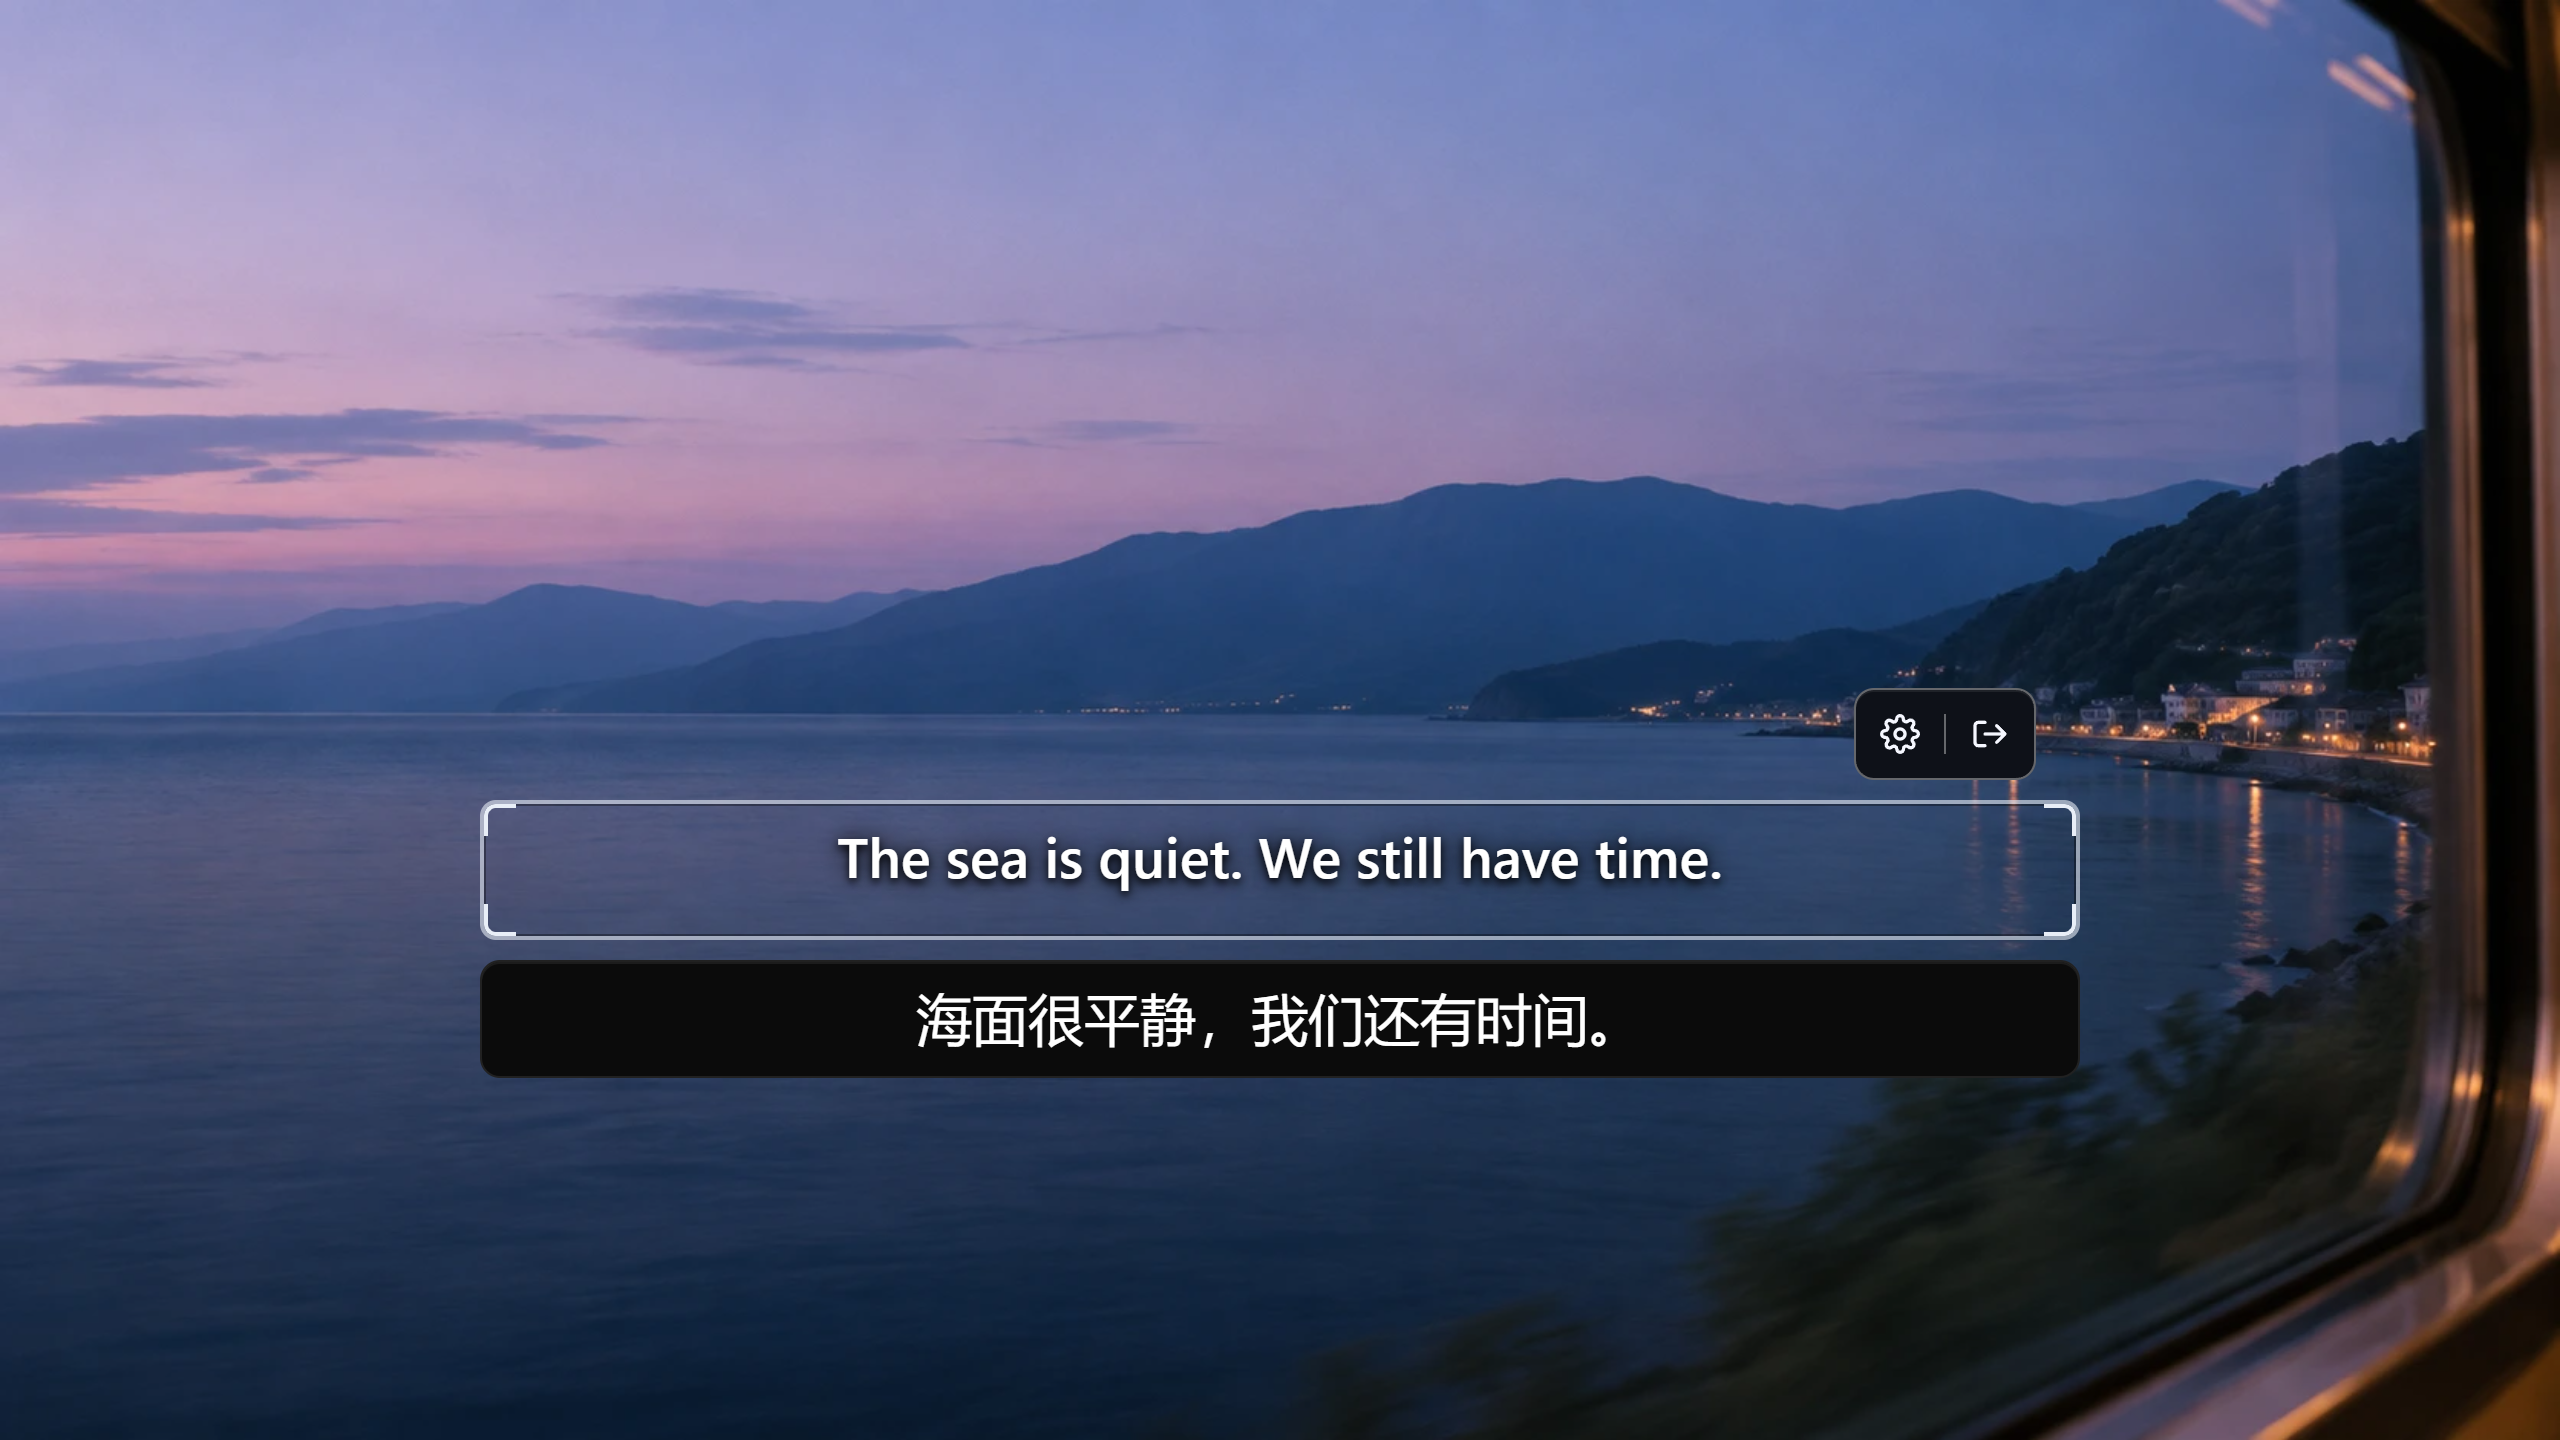
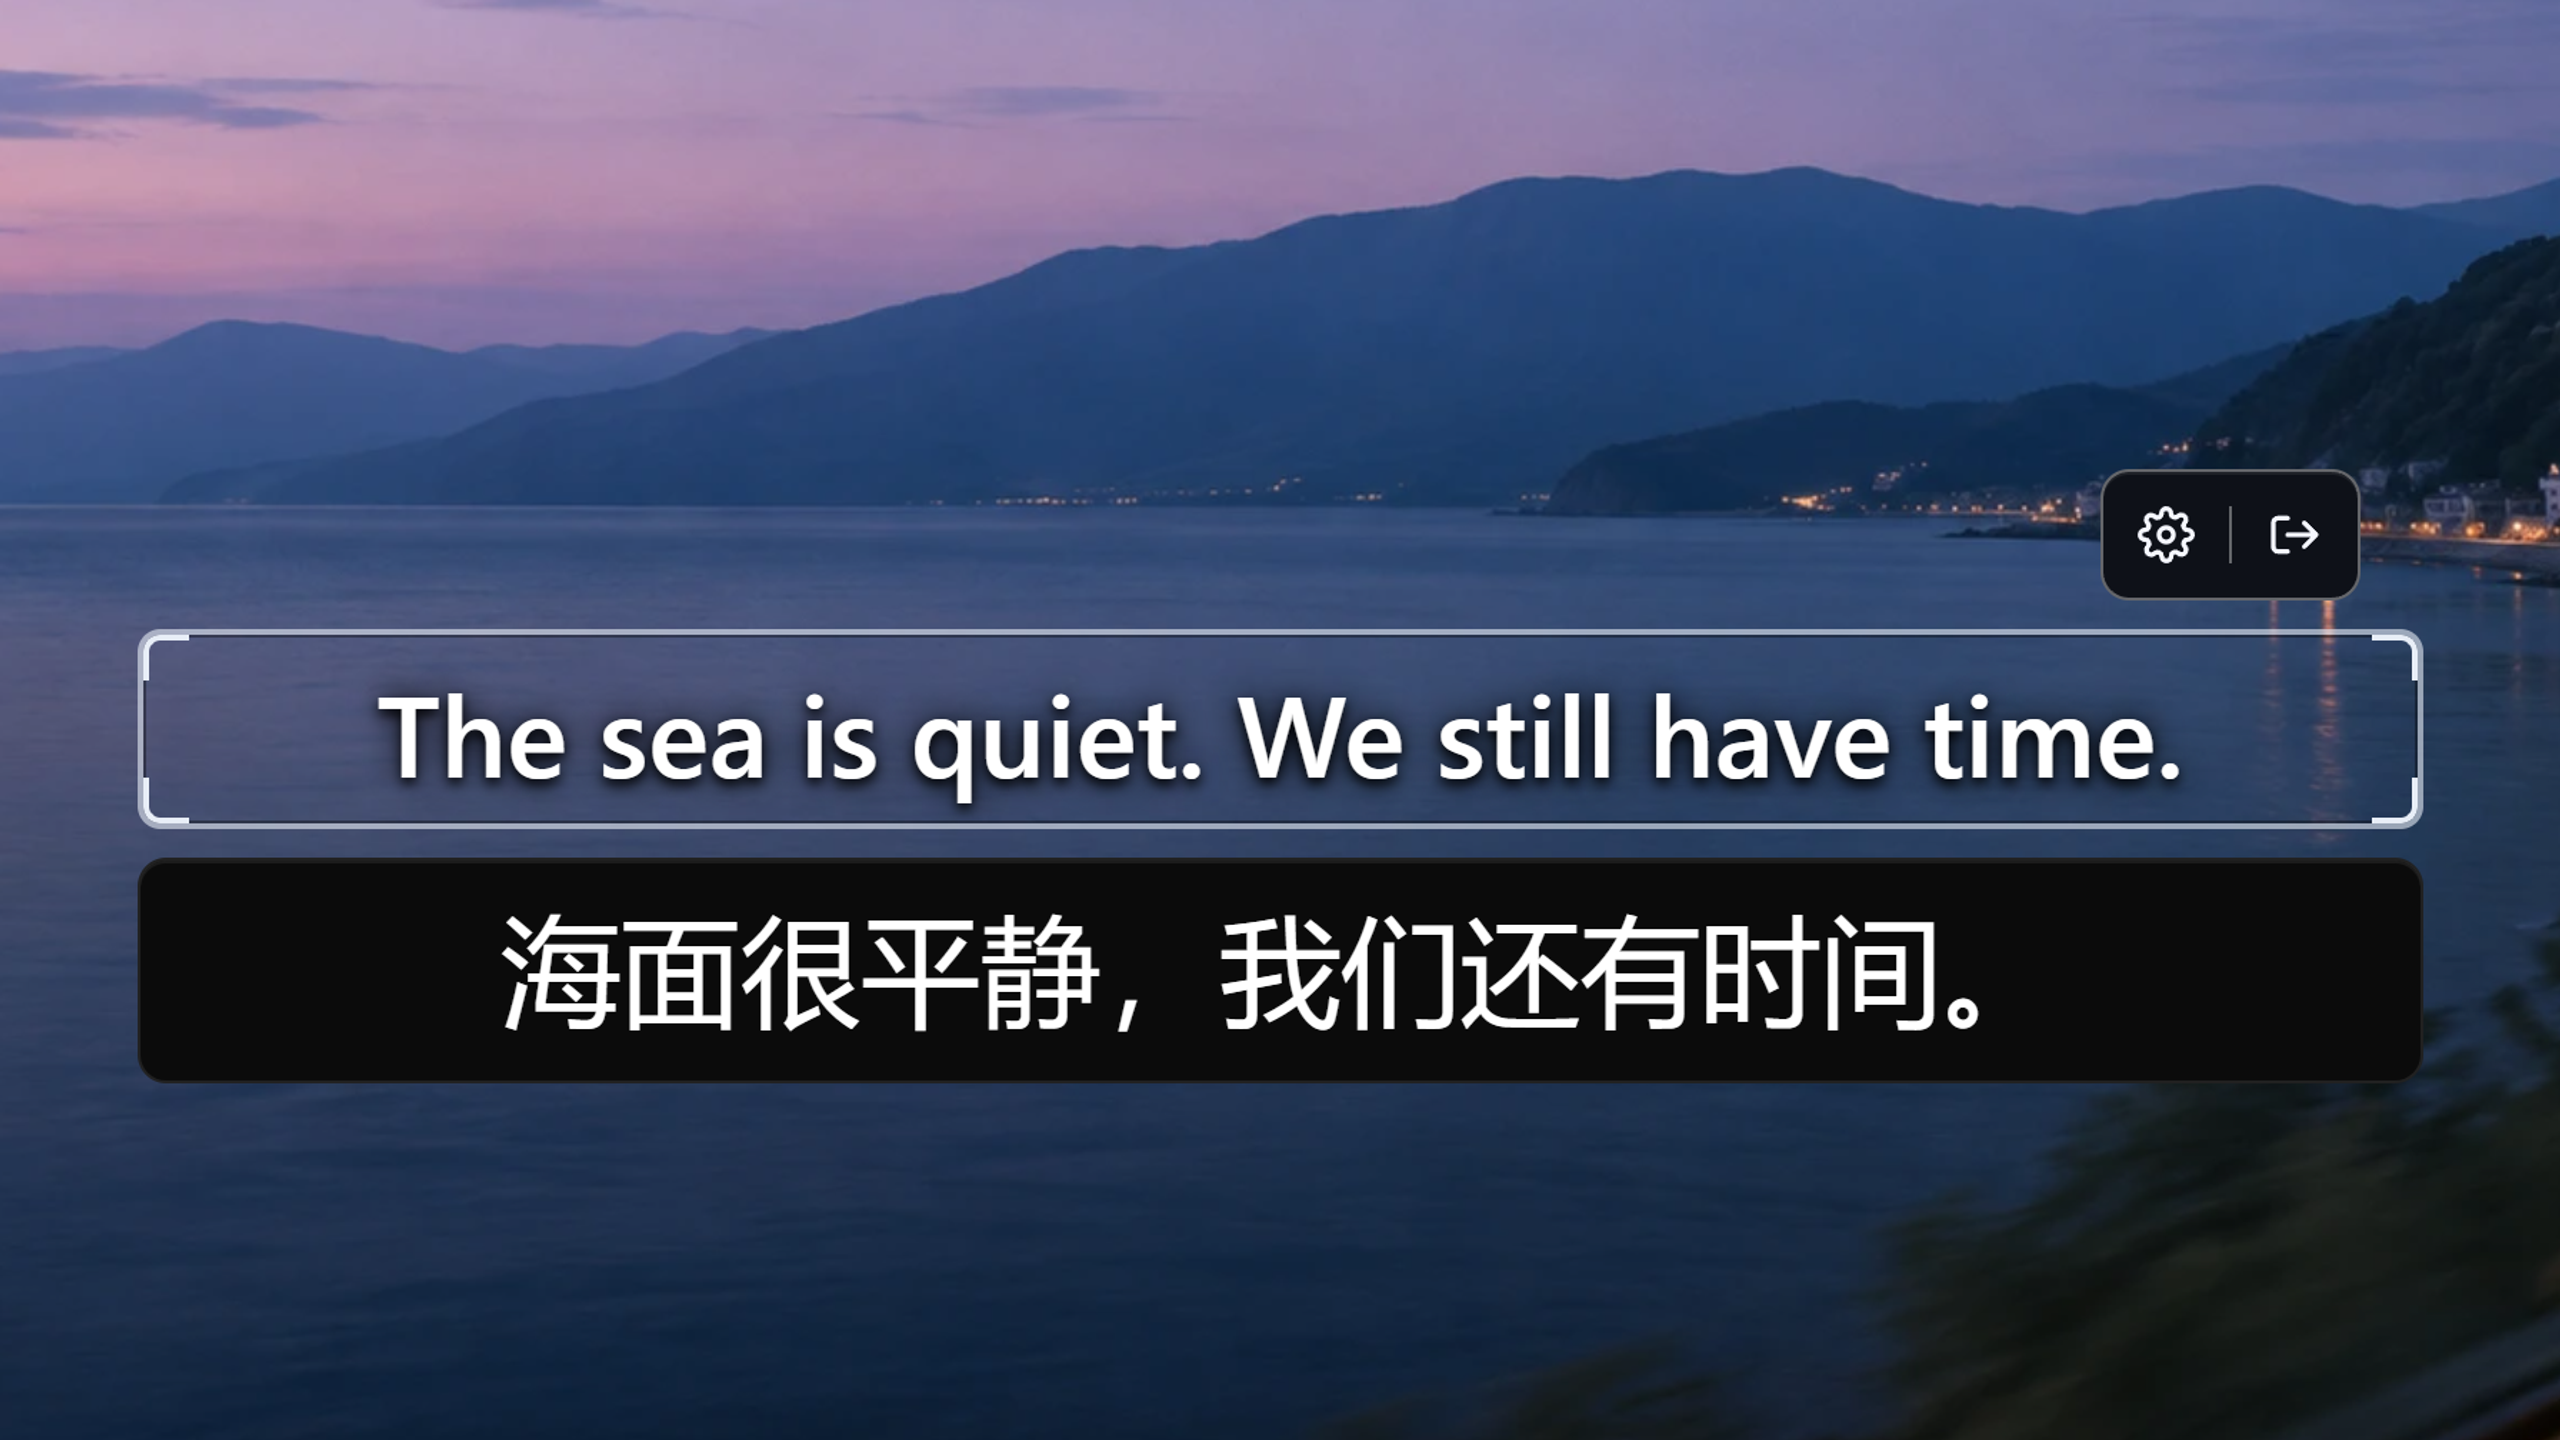
docs(store): improve discovery and subtitle readability on search cards

diff --git a/README.zh-CN.md b/README.zh-CN.md
@@ -36,6 +36,8 @@ https://github.com/user-attachments/assets/58fbac67-9032-42e2-8d4d-8e4df6c01e59
 
 ## 下载
 
+**[从 Microsoft Store 安装](https://apps.microsoft.com/detail/9NNK2X23VLWT)**，支持 x64 和 ARM64，由商店提供更新。也可选择下方的 GitHub 安装包。
+
 **Windows 11 公开测试版 · v0.10.0** — [更新说明与全部安装文件](https://github.com/PeterShanxin/Meowcal-Sub/releases/tag/v0.10.0)。
 
 | 你的电脑 | 安装包 |
@@ -56,7 +58,7 @@ MSI 安装包和 `SHA256SUMS.txt` 校验文件也在该发布页。
 内置的 PP-OCRv6 不需要 Windows 语言组件。识别韩语字幕或你选择 Windows OCR 时，
 需要为原字幕语言安装对应的 Windows 识别语言。
 
-**Windows 可能提示“未知发布者”。** 安装包尚未使用 Authenticode 签名。
+**Windows 可能提示“未知发布者”。** GitHub 独立安装包尚未使用 Authenticode 签名。
 请只从本仓库下载，并将文件的 SHA-256 与发布页校验文件比对；不要全局关闭 Windows 安全防护。
 [安装与校验帮助 →](docs/USAGE.zh-CN.md#安装)
 

diff --git a/docs/store-listing/en-US.md b/docs/store-listing/en-US.md
@@ -2,11 +2,15 @@
 
 ## Short description
 
-Translate subtitles already on your screen. Local text recognition and AI translation, with a floating subtitle overlay. No account, API key, or subscription.
+Translate on-screen subtitles in videos and games with local OCR. Read the translation in a floating overlay, even offline after setup.
+
+## Search terms
+
+on-screen subtitle translator; game subtitle translation; offline OCR; floating subtitles; screen text translation; video subtitle overlay
 
 ## Description
 
-Watch with subtitles you can read. Meowcal Sub translates visible subtitles in videos, games, and desktop apps, and displays the translation in a floating overlay.
+Meowcal Sub reads subtitles already visible in videos, games, and desktop apps, then displays the translation alongside them. You can translate subtitles without a subtitle file.
 
 Choose the original and translation languages, select the subtitle area, and start watching. Next time, start with your saved area. Move the overlay and adjust its text size and background to suit what you are watching.
 

diff --git a/README.md b/README.md
@@ -37,6 +37,8 @@ https://github.com/user-attachments/assets/58fbac67-9032-42e2-8d4d-8e4df6c01e59
 
 ## Download
 
+**[Install from Microsoft Store](https://apps.microsoft.com/detail/9NNK2X23VLWT)** for x64 or ARM64 and get updates through the Store. For standalone GitHub installers, choose your PC below.
+
 **Windows 11 public beta · v0.10.0** — [release notes and all files](https://github.com/PeterShanxin/Meowcal-Sub/releases/tag/v0.10.0).
 
 | Your PC | Installer |
@@ -58,7 +60,7 @@ built-in PP-OCRv6 recognizer needs no Windows language. Windows OCR, used for
 Korean subtitles or when you choose it, needs the Windows recognition language
 for your original subtitles.
 
-**Windows may show an unknown-publisher warning.** Installers are not
+**Windows may show an unknown-publisher warning.** The standalone GitHub installers are not
 Authenticode-signed. Download only from this repository and compare the file's
 SHA-256 with the release checksums; do not disable Windows security globally.
 [Installation and checksum help →](docs/USAGE.md#installation)

diff --git a/docs/store-listing/zh-CN.md b/docs/store-listing/zh-CN.md
@@ -2,11 +2,15 @@
 
 ## 简短描述
 
-把屏幕上的字幕，翻译成你想读的语言。本地识别、本地翻译，译文悬浮显示。全本地运行 · 保护隐私 · 无付费，无需账号或 API 密钥。
+框选视频或游戏里已有的字幕，本地 OCR 识别并翻译，译文悬浮显示。首次设置后可离线使用。
+
+## 搜索关键词
+
+屏幕字幕翻译；游戏字幕翻译；视频字幕翻译；离线 OCR；悬浮字幕；屏幕取词
 
 ## 描述
 
-看视频、玩游戏时，让屏幕上的字幕变成你能读懂的语言。Meowcal Sub · 妙影识别屏幕上已有的字幕，用本地 AI 翻译，并将译文悬浮显示在画面上。
+看视频、玩游戏或使用桌面应用时，Meowcal Sub · 妙影可以识别画面上已有的字幕，把译文显示在原字幕旁。无需字幕文件。
 
 选好原字幕和译文语言，框选字幕区域，即可开始观看。下次可以直接使用已保存的区域。字幕位置、字号和背景均可调整，适应不同画面。
 
